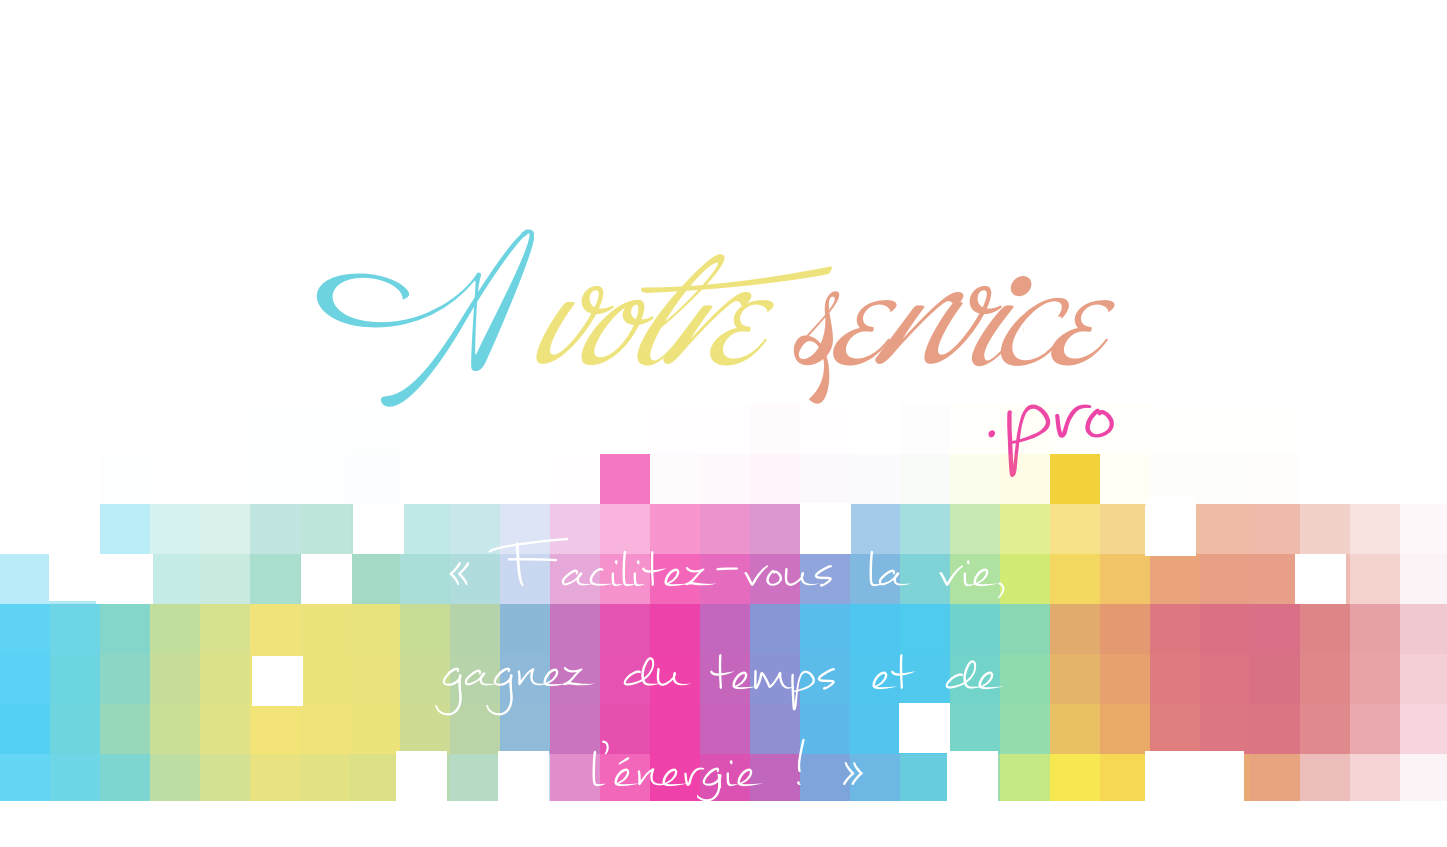
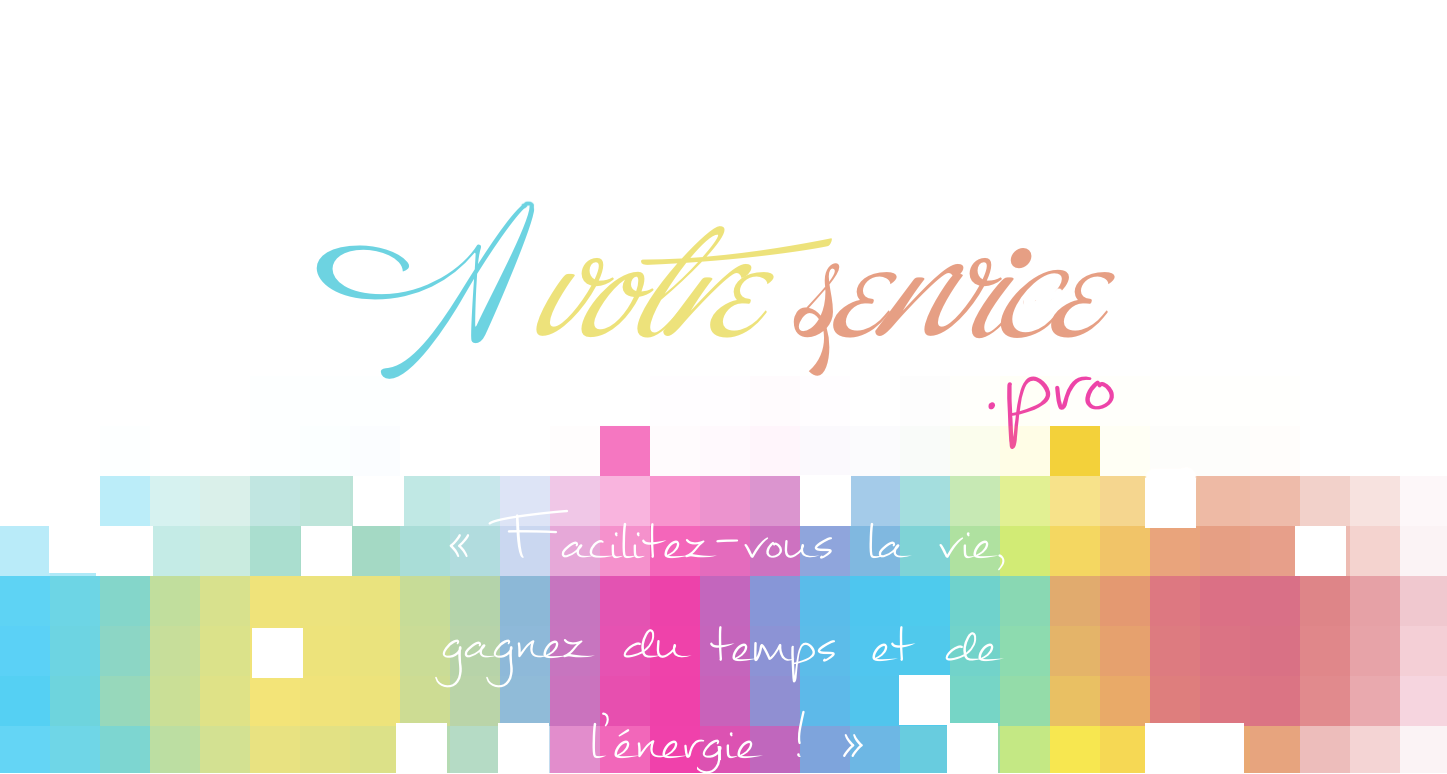
size

diff --git a/avs/screen.css b/avs/screen.css
@@ -142,7 +142,7 @@ text-align: center;
 	background-image: url(images/fond.png) !important;
 	background-repeat: no-repeat;
 	background-attachment: fixed;
-	background-size: 100%;
+	background-size: auto 100%;
 	background-position: center;	/* right column background colour */
 }
 .threecol .colmid {
